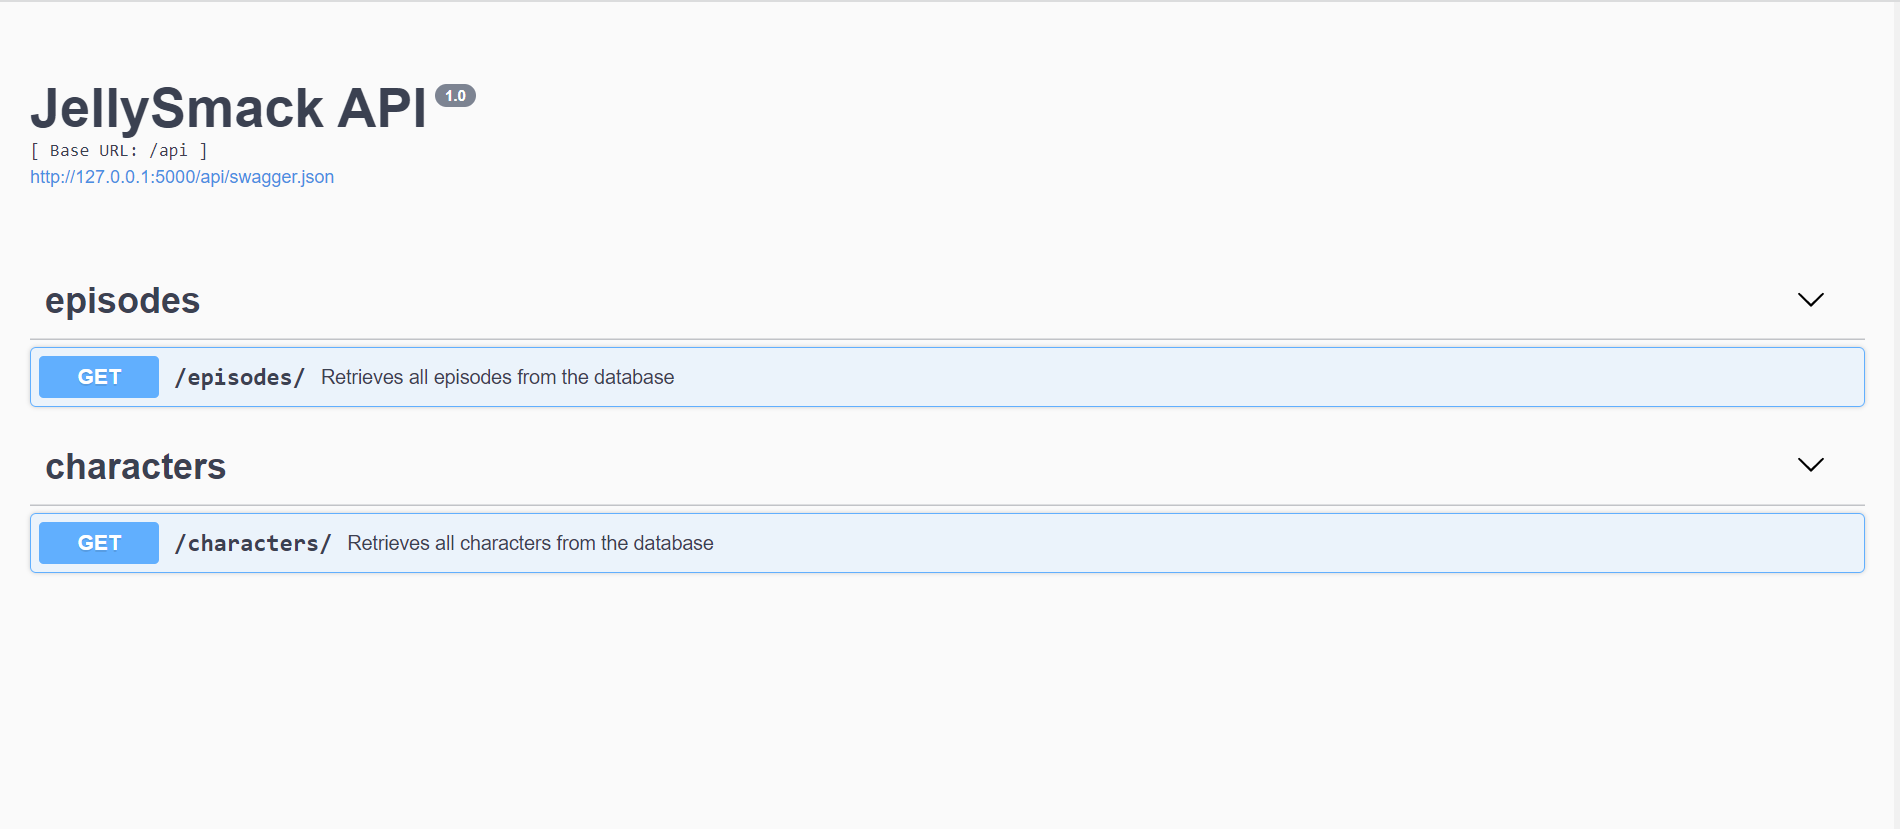
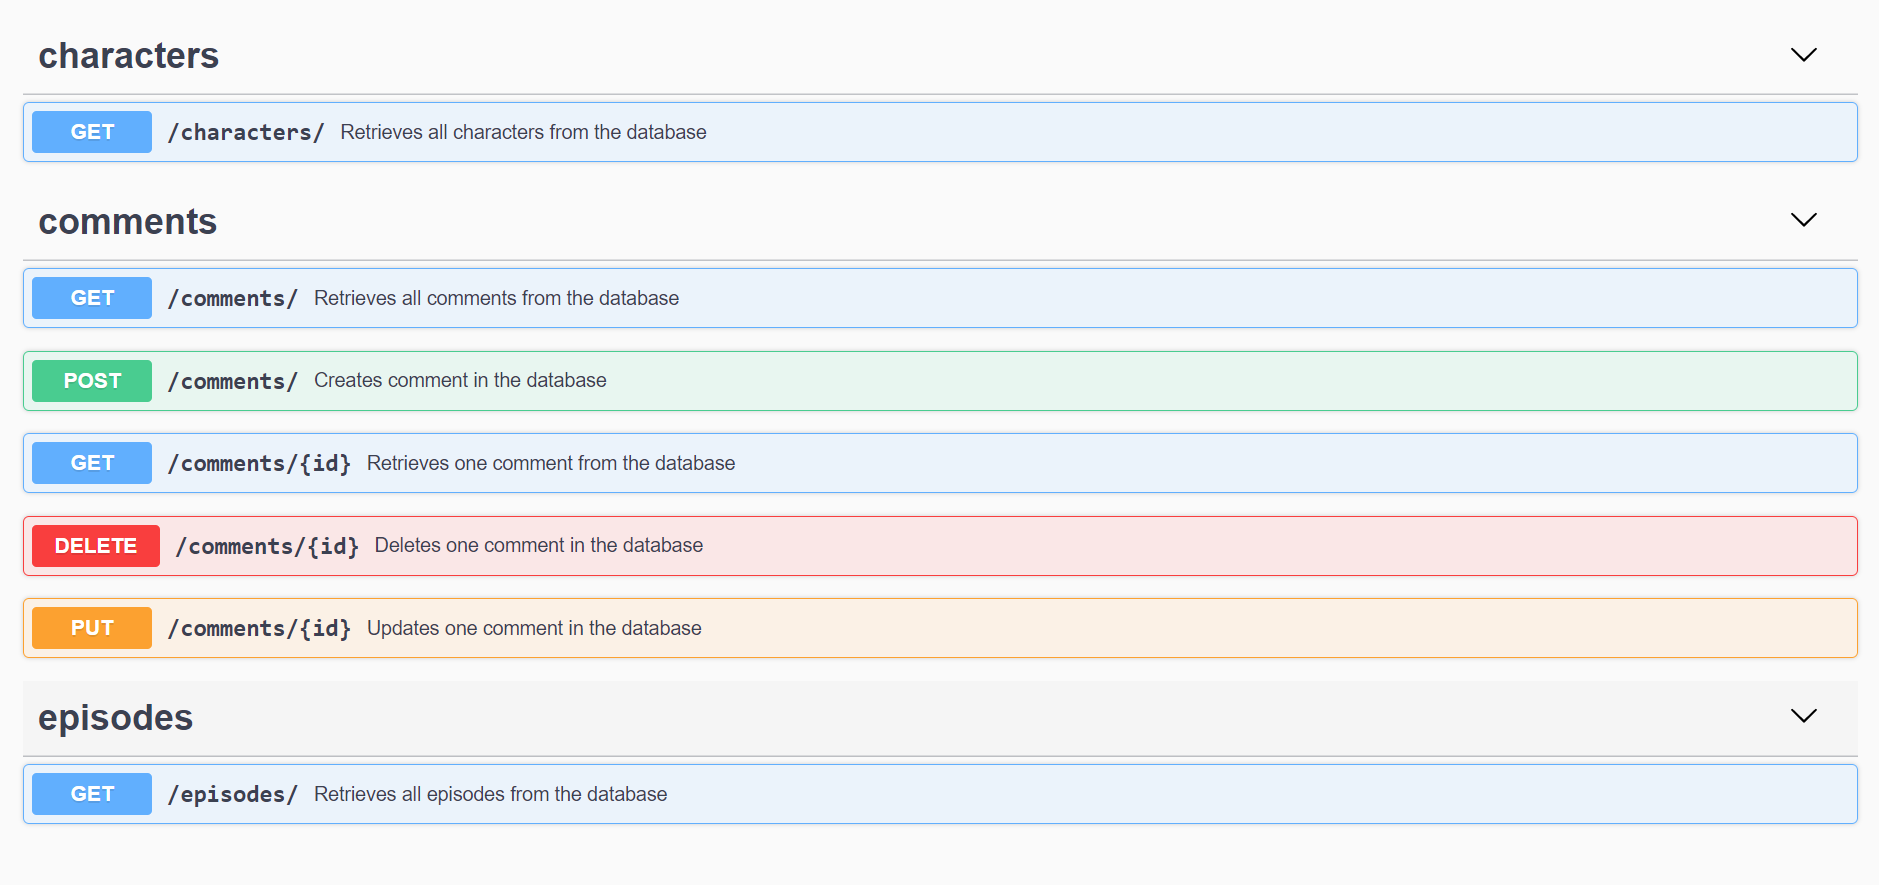
Feature 2 - miss test unit

diff --git a/database/models/Character.py b/database/models/Character.py
@@ -1,6 +1,8 @@
 
 from database import db
 from database.models.CharacterEpisode import character_episode
+from database.models.Comment import Comment
+from database.models.Episode import Episode
 
 
 class Character(db.Model):
@@ -12,5 +14,5 @@ class Character(db.Model):
     type = db.Column(db.String)
     gender = db.Column(db.String)
 
-    comments = db.relationship('Comment', backref='character')
-    episodes = db.relationship('Episode', secondary=character_episode)
+    comments = db.relationship(Comment, backref='character')
+    episodes = db.relationship(Episode, secondary=character_episode)

diff --git a/database/schema/EpisodeSchema.py b/database/schema/EpisodeSchema.py
@@ -7,5 +7,6 @@ class EpisodeSchema(ma.SQLAlchemyAutoSchema):
     class Meta:
         model = Episode
 
+    comments = ma.Nested("Comment", many=True)
     characters = ma.Nested("CharacterSchema", many=True, only=('id', 'name'))
 

diff --git a/database/schema/CharacterSchema.py b/database/schema/CharacterSchema.py
@@ -7,4 +7,5 @@ class CharacterSchema(ma.SQLAlchemyAutoSchema):
     class Meta:
         model = Character
 
+    comments = ma.Nested("Comment", many=True)
     episodes = ma.Nested("EpisodeSchema", many=True, only=('id', 'name'))

diff --git a/README.md b/README.md
@@ -30,12 +30,19 @@ python manager.py db upgrade
 ### Import data
 
 ```bash
+cd data
 # With, in the same folder, the files rick_morty-characters_v1.json 
 # and rick_morty-episodes_v1.json .
-python data/import_data.py 
+python import_data.py 
 
 # With another files.
-python data/import_data.py -c characters.json -e episodes.json
+python import_data.py -c characters.json -e episodes.json
+```
+
+### Unit tests
+
+```bash
+python -m unittest discover tests
 ```
 
 ### Run API server
